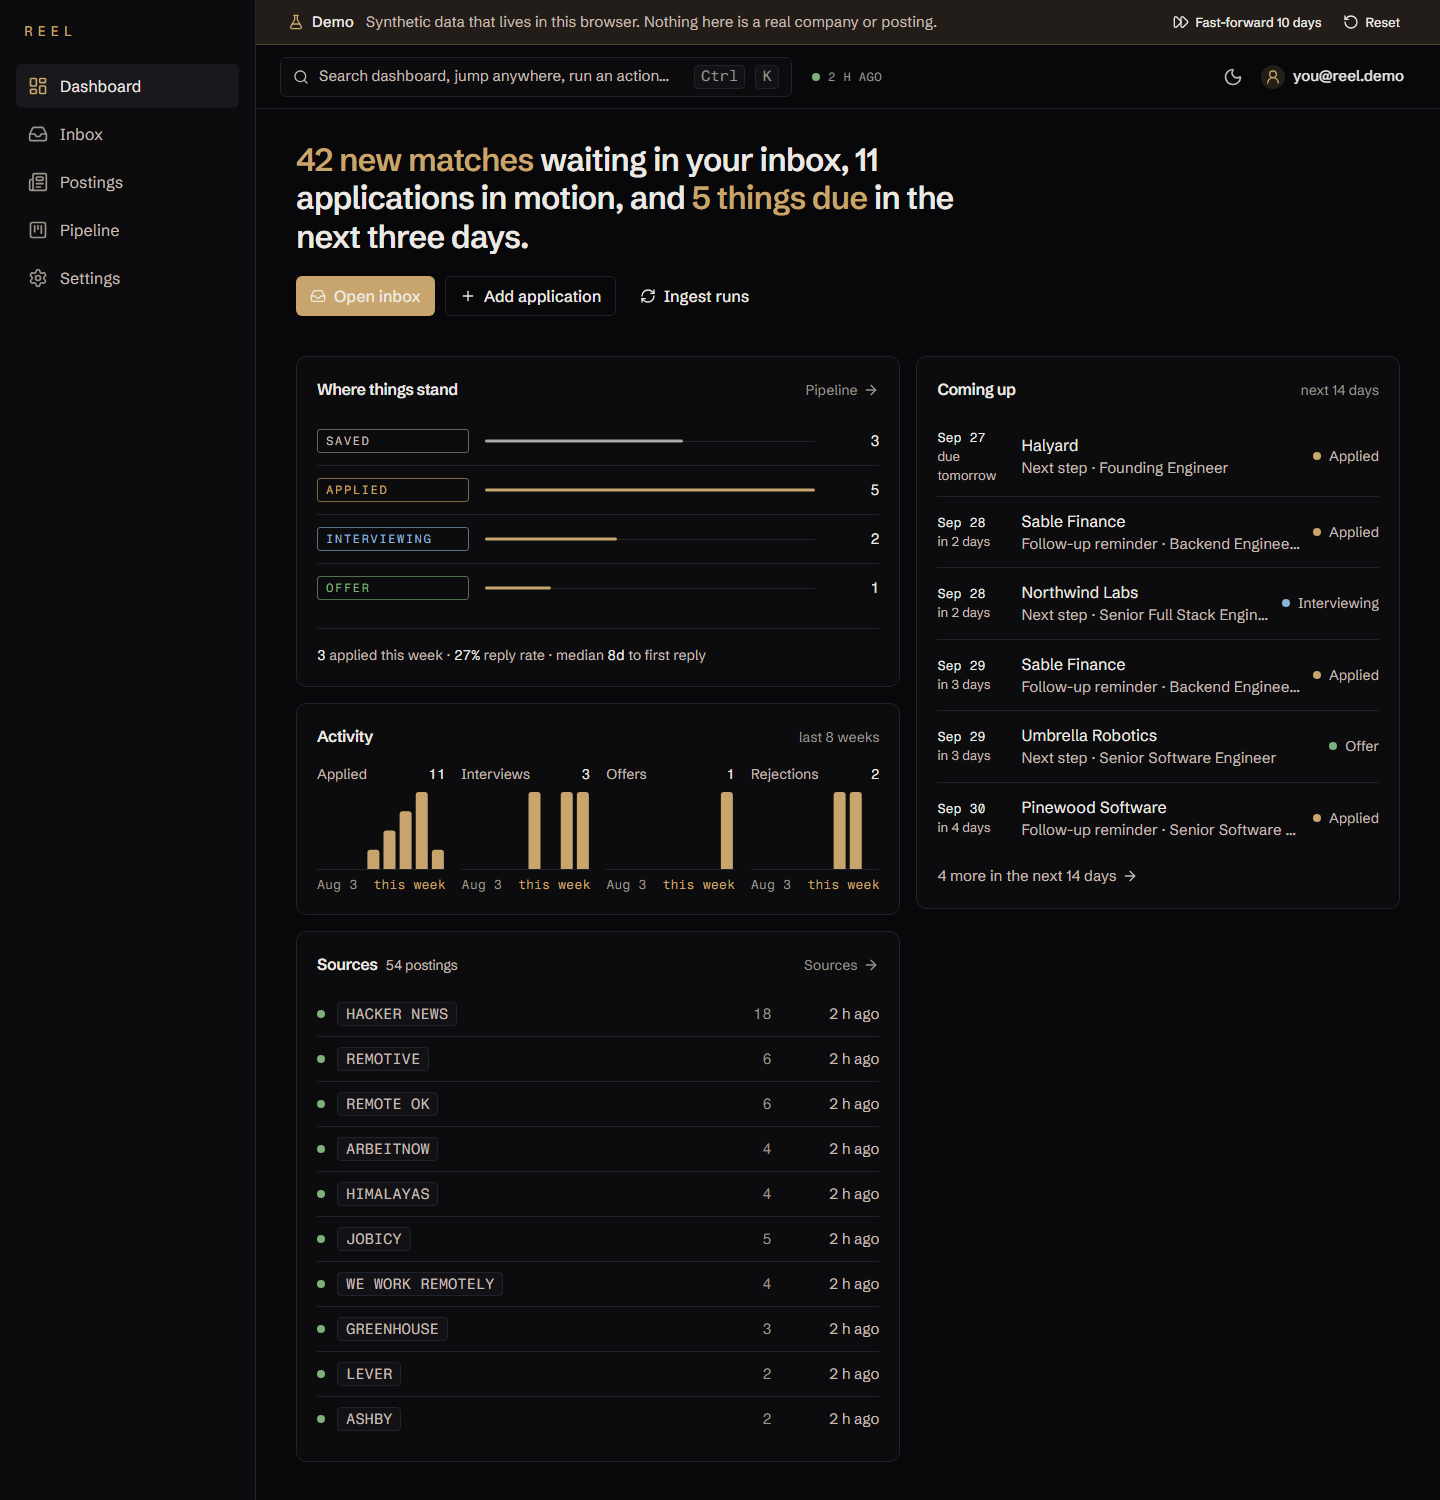
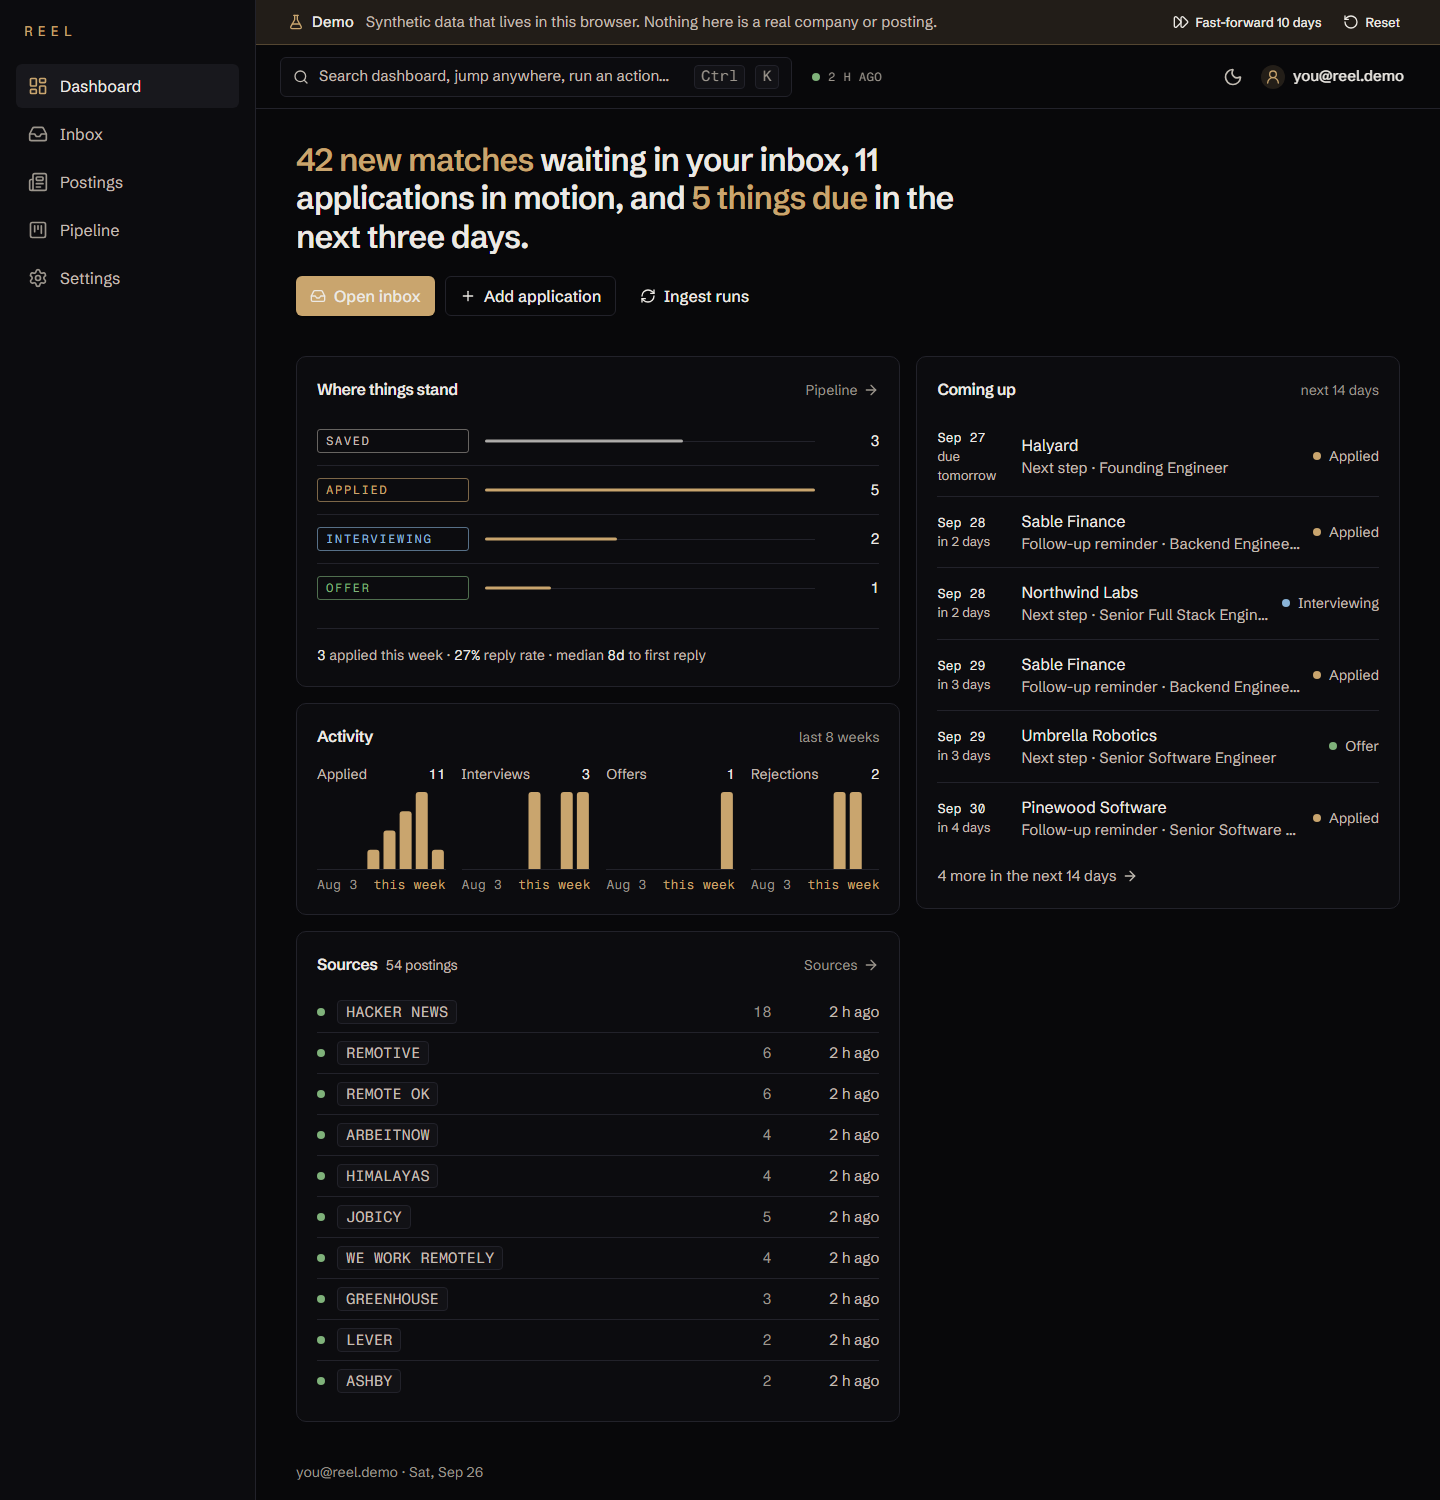
fix(web): keep Coming up ahead of Sources on phones and tighten the source rows

Changed region(s): [[0.2188, 0.644, 0.3438, 0.9507], [0.5625, 0.6747, 0.625, 0.9507], [0.2188, 0.9813, 0.3125, 1.0]]

diff --git a/apps/web/src/app/(app)/dashboard/page.tsx b/apps/web/src/app/(app)/dashboard/page.tsx
@@ -336,7 +336,7 @@ function SourceHealth() {
                   ? 'bg-info'
                   : 'bg-success';
           return (
-            <li key={item.source} className="flex items-center gap-3 py-2.5 text-body-sm">
+            <li key={item.source} className="flex items-center gap-3 py-2 text-body-sm">
               <Tip
                 content={
                   run
@@ -386,11 +386,12 @@ export default function DashboardPage() {
             <Skeleton className="h-52" />
           )}
           {stats.data ? <Weekly weekly={stats.data.weekly} /> : <Skeleton className="h-40" />}
-
-          <SourceHealth />
         </div>
-        <div className="min-w-0 space-y-4">
+        <div className="min-w-0">
           {stats.data ? <Upcoming items={stats.data.upcoming} /> : <Skeleton className="h-52" />}
+        </div>
+        <div className="min-w-0 lg:col-start-1">
+          <SourceHealth />
         </div>
       </div>
 
